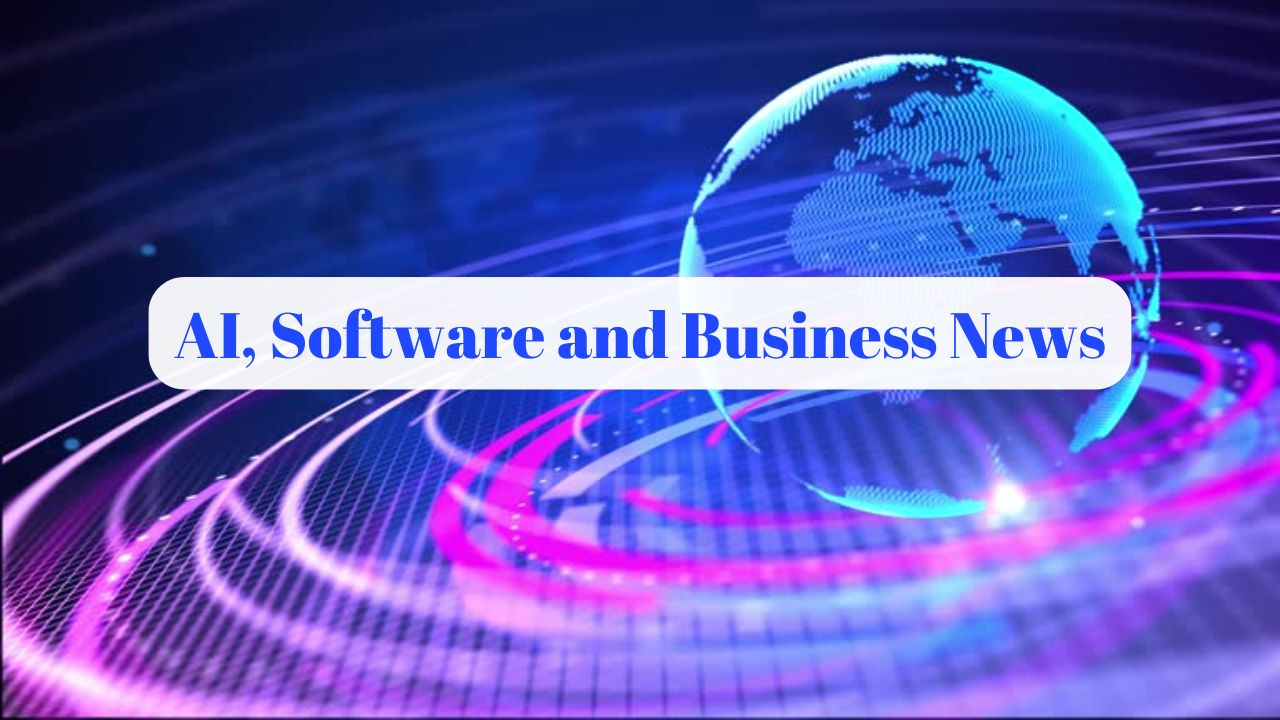
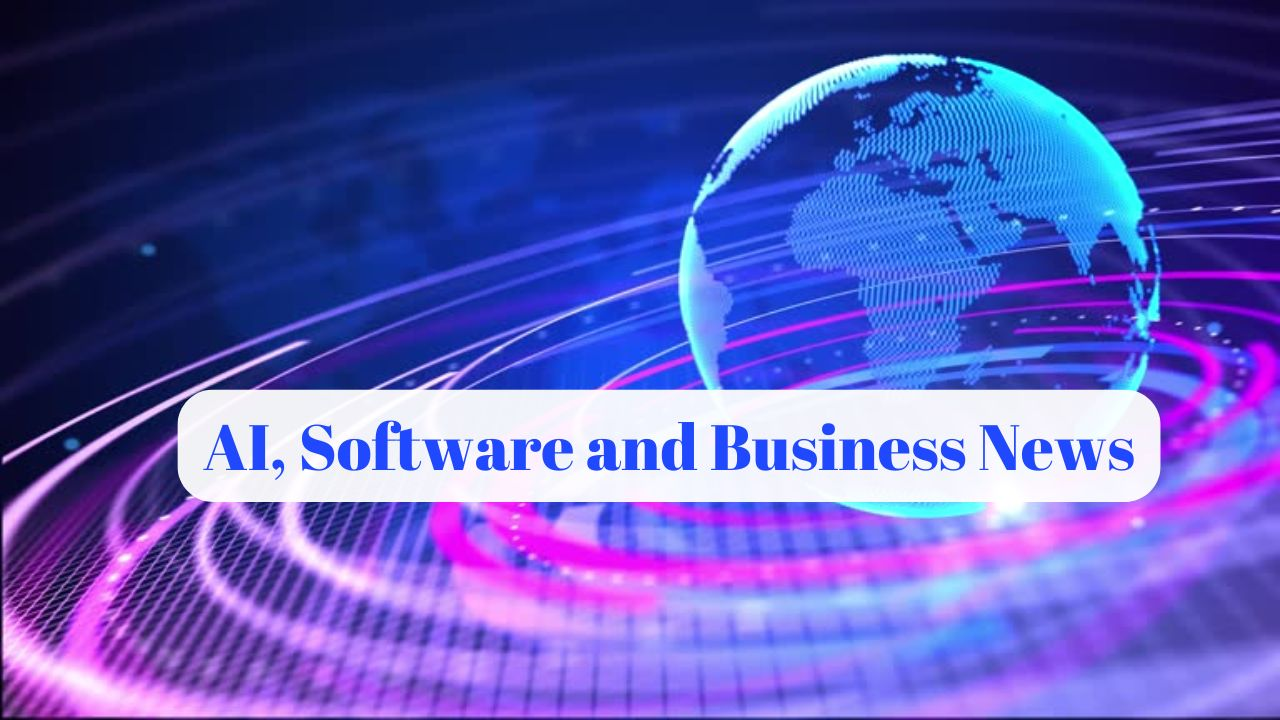
Nandan Nilekani + defaults thumbnail

Changed region(s): [[0.0938, 0.3667, 0.9062, 0.7028]]

diff --git a/_booksummary/2025-03-21-Nandan-Nilekani-at-Raisina-2025.md b/_booksummary/2025-03-21-Nandan-Nilekani-at-Raisina-2025.md
@@ -1,0 +1,127 @@
+---
+mathjax: true
+id: 7551
+title: "Nandan Nilekani Raisina 2025 Talk Summary and Analysis"
+date: 2025-03-21
+permalink: /booksummary/Nandan-Nilekani-at-Raisina-2025
+tags:
+  - "Nandan Nilekani"
+  - "Raisina 2025"
+  - "India Growth"
+  - "Aadhaar ID"
+  - "Digital India"
+  - "India Development"
+categories:
+header:
+  teaser: /assets/images/default/summaryblog.jpg
+author: Hari Thapliyaal
+layout: booksum-layout
+excerpt: "Summary and analysis of Nandan Nilekani's talk at Raisina 2025 on India's growth, Aadhaar ID, Digital India, and development."
+author_profile: true
+share: true
+toc: true
+toc_sticky: false
+comments: true
+keywords: [Nandan Nilekani, Raisina 2025, India Growth, Aadhaar ID, Digital India, India Development]
+---
+
+![Summary Blog](/assets/images/default/summaryblog.jpg)
+
+# Nandan Nilekani 15 Min Compact Talk on India Growth
+
+Event Date: 21-Mar-2025
+
+## 📅 **Key Events in 2016 ("The Year That Changed Everything")**
+
+1. **April 4, 2016** – India issued its **1 billionth Aadhaar ID** (now over 1.3 billion IDs).
+2. **April 11, 2016** – Launch of **UPI** (Unified Payments Interface).
+3. **September 2, 2016** – **RBI** issued guidelines enabling democratized credit access.
+4. **September 5, 2016** – **Jio launched** with free voice and data for 6 months.
+5. **November 8, 2016** – **Demonetization**: Withdrawal of high-denomination currency notes.
+6. **December 30, 2016** – **BHIM app** launched by the Prime Minister.
+
+---
+
+## 📊 **Digital Infrastructure & Adoption Stats**
+
+- **1.4 billion** people now have a **digital ID (Aadhaar)**.
+- **2.25 billion** Aadhaar authentications **per month**.
+- **UPI payments**: **16 to 17 billion transactions per month**.
+- **FASTag** (unified toll system): **384 million transactions per month**.
+- **GST Impact**: Formal companies increased from **4 million to 14 million**.
+- **DigiLocker**: Indians store Aadhaar, driving licenses, and vehicle documents on their phones.
+
+---
+
+## 📱 **Smartphone & App Usage**
+
+- Smartphone users to increase from **600 million to 900 million by 2035**.
+- People now **show IDs, make payments**, and **open bank accounts** using their phones.
+
+---
+
+## 🚀 **Startup Ecosystem Growth**
+
+- **2015–16**: ~**1,000 startups**.
+- **2025**: ~**150,000 startups**.
+- **2035 Projection**: **1 million startups**.
+- Example startups:
+  - **PhonePe** (Walmart-owned): **350 million** active users.
+  - **Meesho**: **150 million** consumers.
+  - **Physics Wallah**: Edtech unicorn.
+  - **Zeppto**: Built by two **22-year-old Stanford dropouts**.
+  - **Rapido**: **3.5 million rides per day** (bike taxis).
+  - **Urban Company**: **50,000+ service providers**.
+
+---
+
+## 🧒 **Demographics**
+
+- **India will have 380 million Gen Z** citizens by 2035.
+- Most will have grown up in the digital and mobile-first era.
+
+---
+
+## 💰 **Capital Markets & Financial Access**
+
+- India had **327 IPOs in the last year**, raising **$20 billion**.
+  - Highest in the world in terms of number of IPOs.
+- **Account Aggregator system**: 
+  - Covers **10% of personal loans** today.
+  - Facilitates ~**₹10,000 crore ($1+ billion)** credit per month.
+- **50% of Indian wealth** is in **land**, which is **not fungible** yet.
+- Push for **land tokenization** using **public blockchains** to make land tradable/collateralized.
+- Companies like **Razorpay, PhonePe, Pine Labs** are **shifting registration back to India** and paying taxes.
+
+---
+
+## 🌆 **Urbanization & Formalization**
+
+- Only **15% of Indian economy is formalized** (compared to Brazil’s 60%).
+- **63 million** small businesses exist, but **few are formalized**.
+- Goal: Increase to **10 million formalized businesses**.
+- Push to expand innovation beyond **top 50 cities** into smaller towns and rural areas.
+
+---
+
+## 🔍 **Reforms Needed for 8% Growth**
+
+- Use **AI at population scale** for education, language translation, and health.
+- Expand **account aggregator usage** to boost credit access.
+- **Tokenize land assets** to unlock trapped capital.
+- Promote **entrepreneurship across India**, not just metros.
+- **Turbocharge formalization**:
+  - Enable **portability** of benefits and credentials.
+  - Push for **deregulation and simplification** of compliance laws.
+
+---
+
+## 🧭 **Future Vision**
+- India is expected to grow at 6% steadily.
+- With a few reforms (AI, capital access, formalization), can grow at 8%.
+- Combination of digital and physical infrastructure will fuel this.
+- Goal: Make India a digitally-empowered entrepreneurial economy.
+
+---
+
+[Source Youtube Video](https://www.youtube.com/watch?v=5JN18181818)
